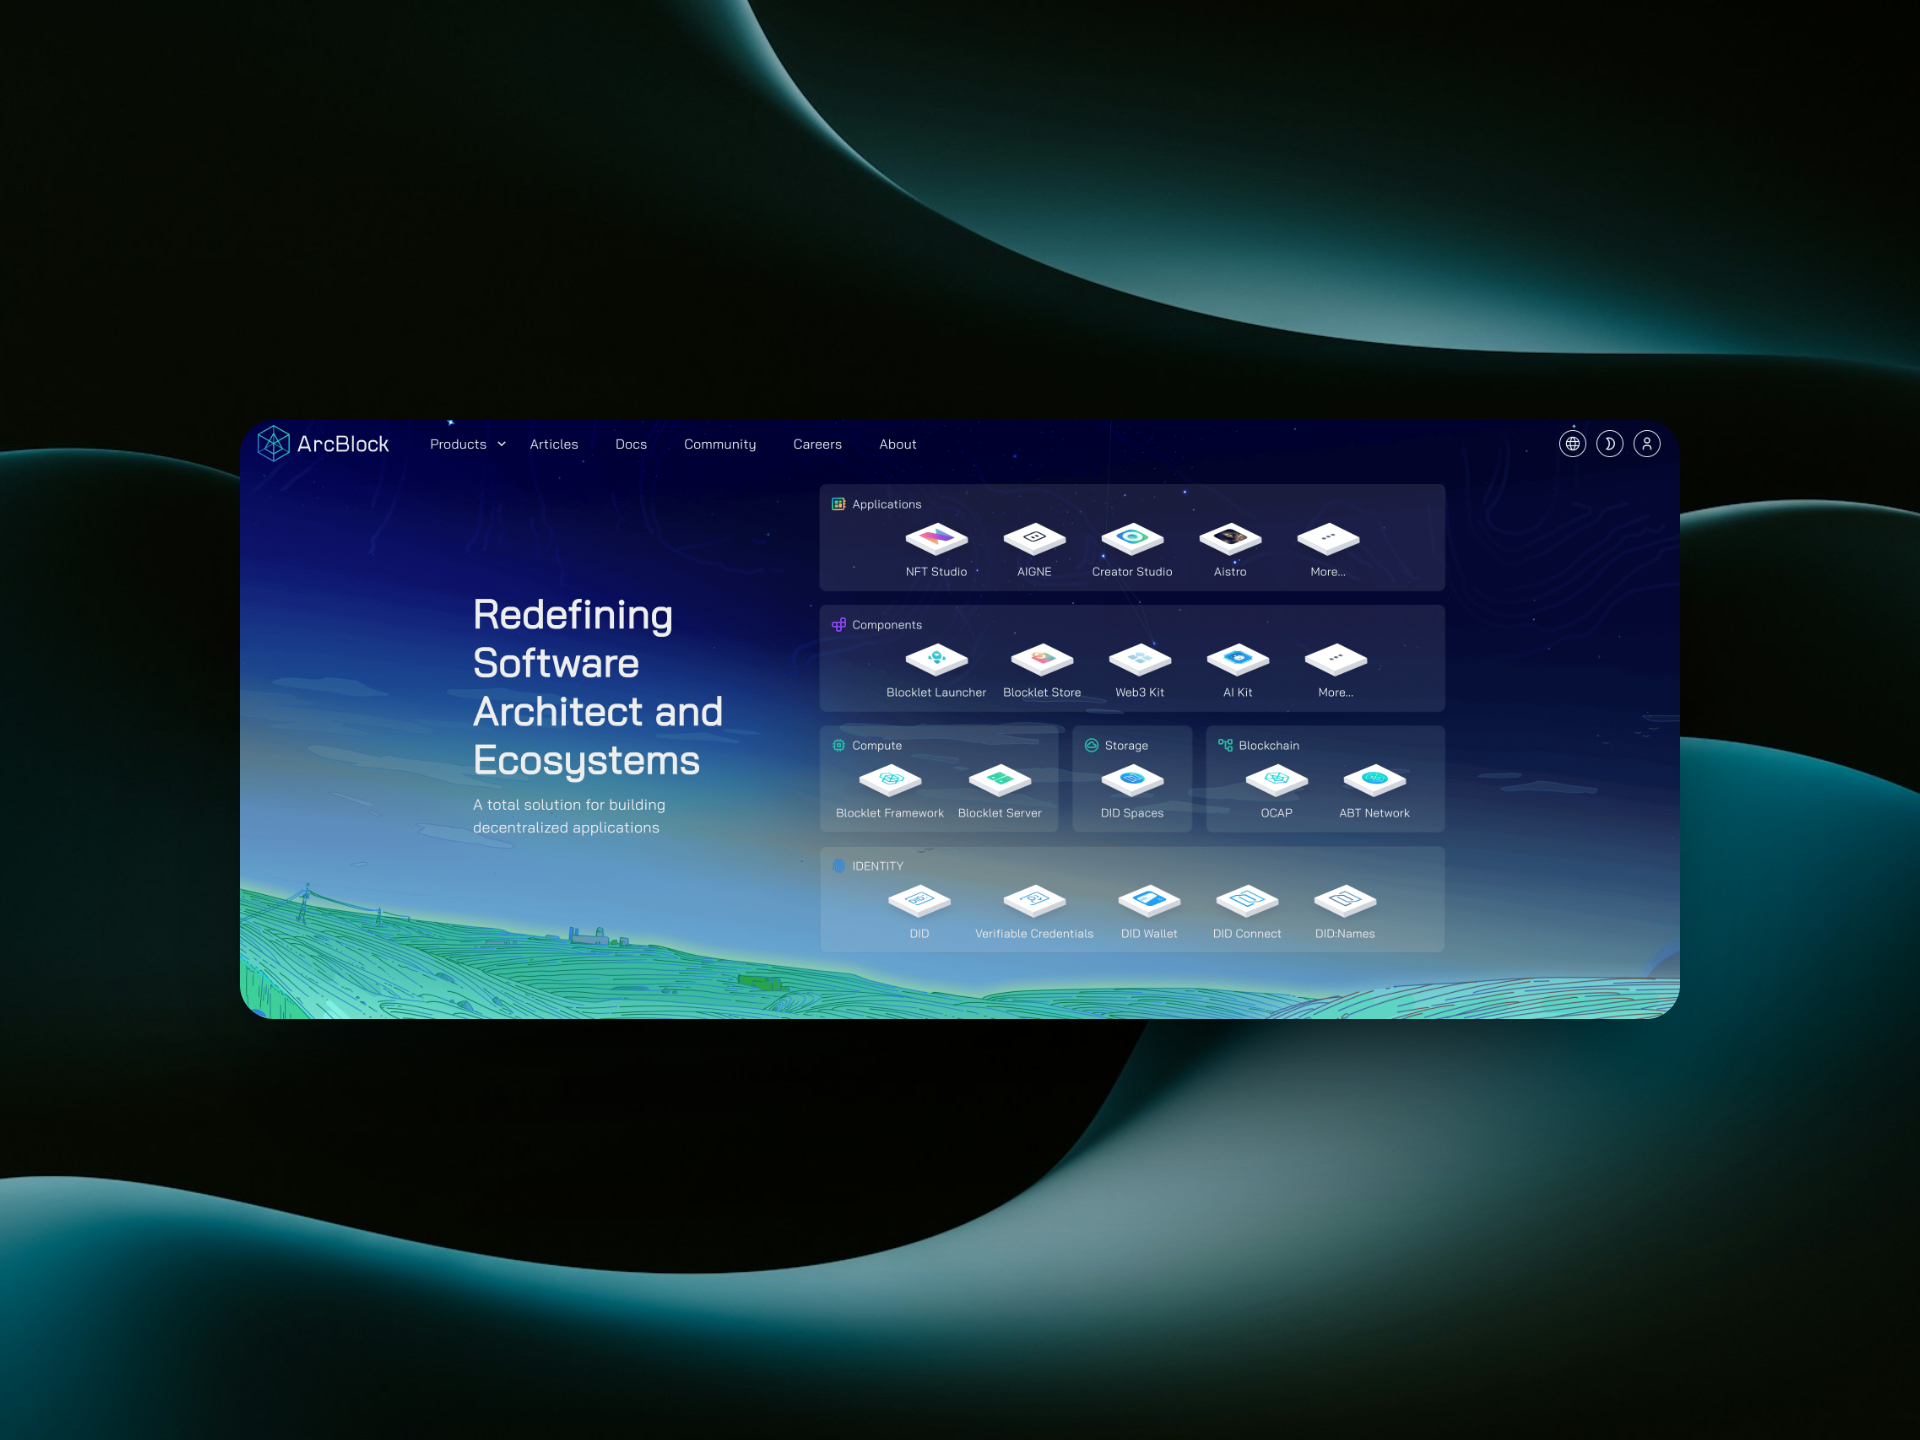
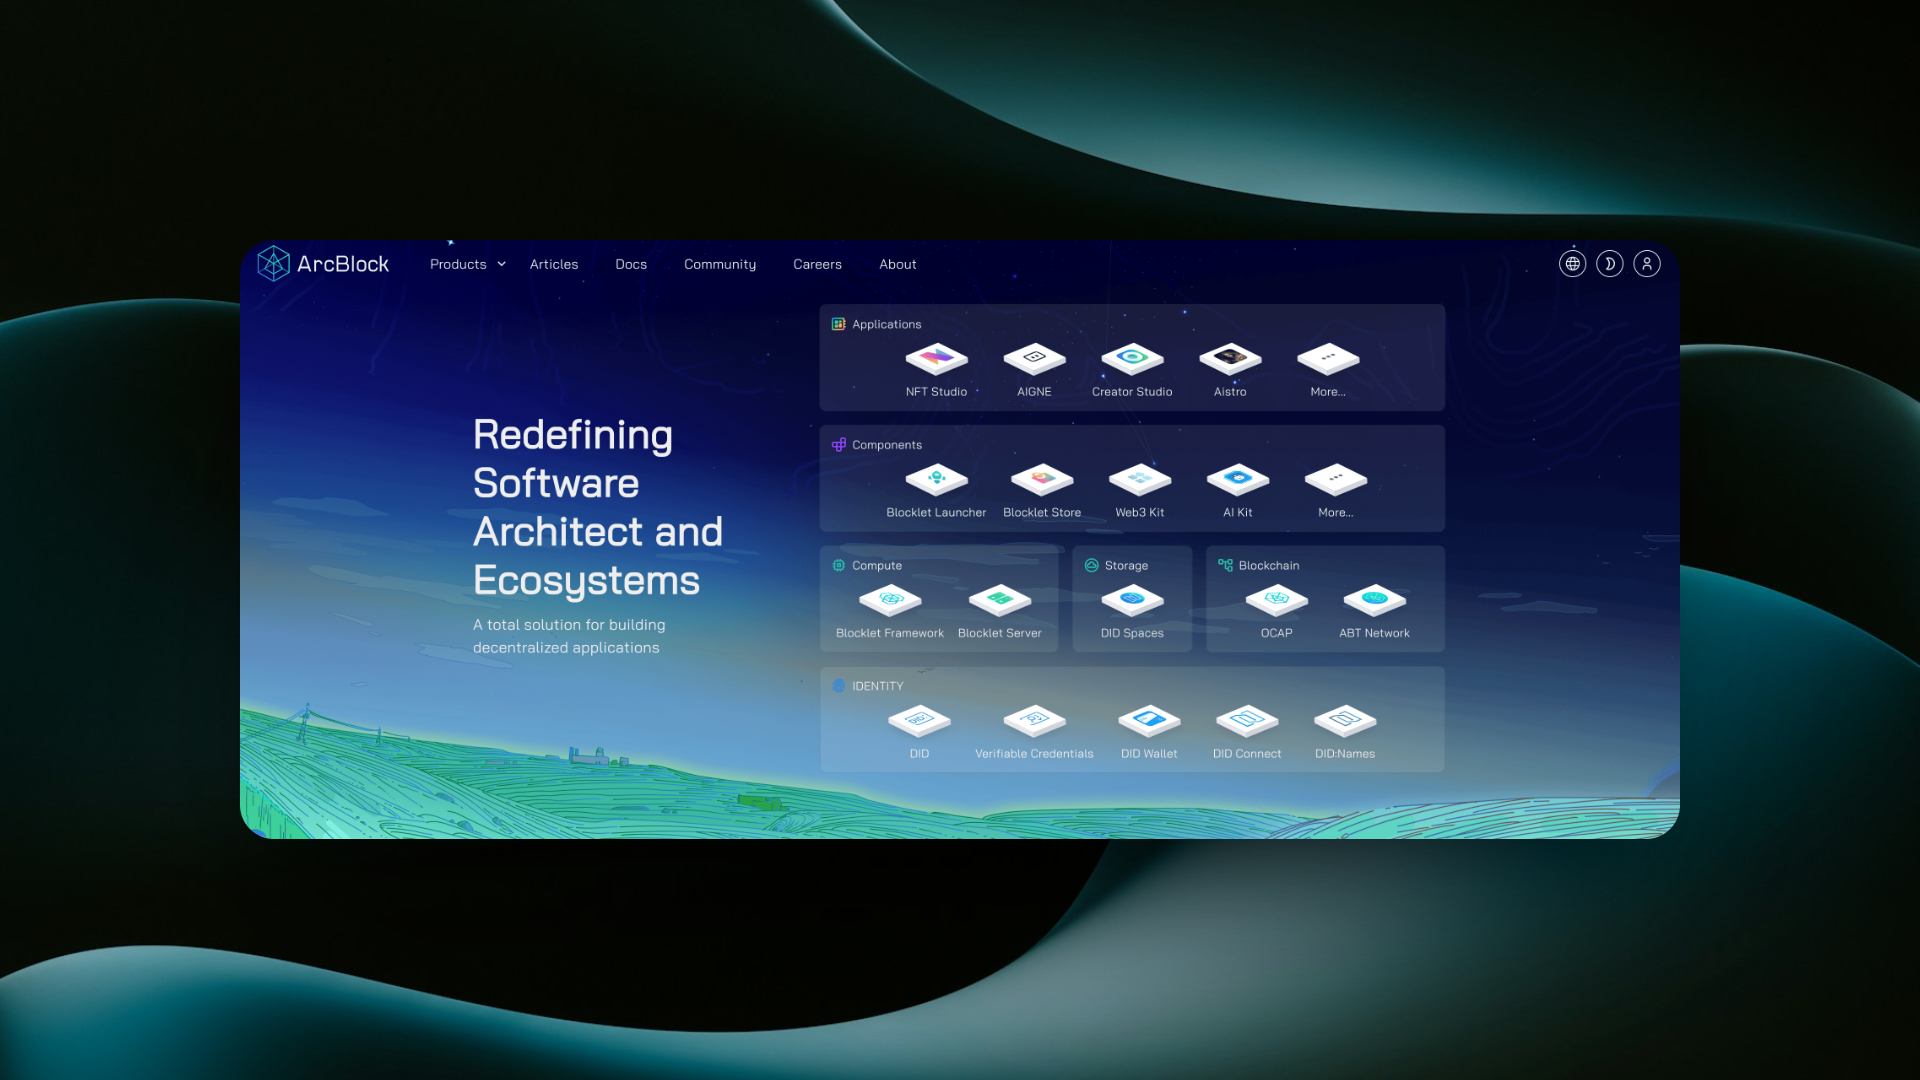
chore: update blocklet screenshots (#6)
* ci: fix

* ci: fixed workflows

* chore: support esm packaging for @arcblock/crawler

* chore: 1.0.2

* ci: add build step to workflows

* ci: remove build on snap-kit

* ci: update skip-deps to false

* chore: add module entry

* chore: 1.0.3

* chore: add blocklet screenshots

* chore: 1.0.4

* chore: update screenshot

* chore: 1.0.5

diff --git a/CHANGELOG.md b/CHANGELOG.md
@@ -1,3 +1,7 @@
+## 1.0.5 (2025-5-22)
+
+- chore: update screenshot
+
 ## 1.0.4 (2025-5-22)
 
 - chore: add blocklet screenshots
